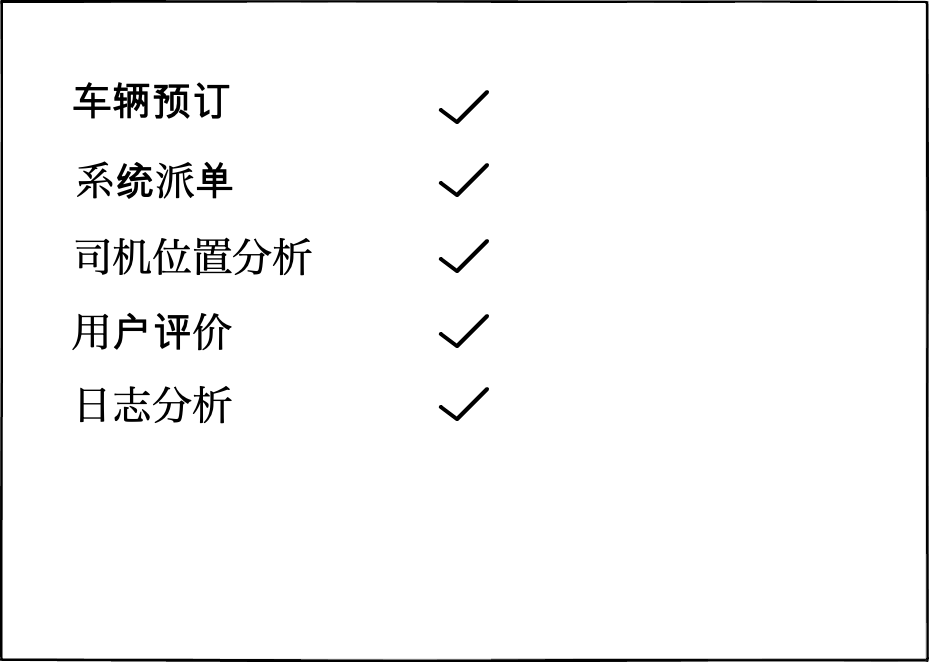
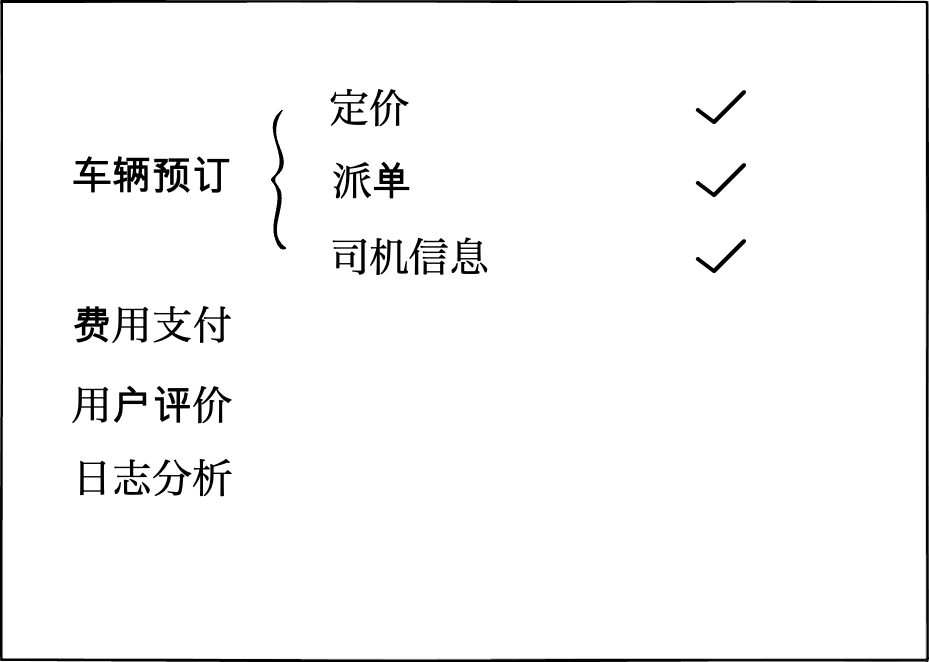
update content

diff --git a/content/基础/常见问题/系统设计面试 101（未完成）.md b/content/基础/常见问题/系统设计面试 101（未完成）.md
@@ -10,77 +10,126 @@ weight: 5
 - [如何写一份更好的简历](../如何写一份更好的简历/)
 - [程序员国外求职指南](../程序员国外求职指南/)
 
-在进行系统设计面试之前，我因为系统设计需要对整个项目所涉及的架构与解决方案有详尽的了解。例如当谈到负载均衡时，需要阐述使用 Http 的负载均衡还是 LVS 的，使用哪个软件的哪个负载均衡算法，优点缺点是什么，它们处理请求的流程，基础模型等等。但是经过大量的资料阅读，几次系统设计面试以及面试官反馈之后。我发现**系统设计的总体架构以及流程流程远比细节重要，短时间把所有技术细节都正确地分析到位非常困难，**把主要功能点与基本框架描述清楚，再就自己熟悉的方向深入作答，就能得到不错的评价。**这篇文章的目的并不是教你如何设计一套高可用的系统。而是让你在阅读完大量系统设计的学习资料之后，懂得如何在面试中表现出来。
-
-#### 系统设计资源推荐
-就像算法题中，了解基础的数据结构能够帮助我们快速解决问题，系统设计也需要我们了解一些常用的软件架构以及使用场景，这里我列出了一些学习资源，你可以先粗略看一遍。
-
-- [Inside NGINX: How We Designed for Performance & Scale](https://www.nginx.com/blog/inside-nginx-how-we-designed-for-performance-scale/)
-- [Introduction to Redis](https://redis.io/topics/introduction)
-- [How does Hadoop work and how to use it?](https://www.dezyre.com/article/hadoop-explained-how-does-hadoop-work-and-how-to-use-it-/237)
-- [Thorough Introduction to Apache Kafka](https://hackernoon.com/thorough-introduction-to-apache-kafka-6fbf2989bbc1)
-- [Highscalability all time favorites](http://highscalability.com/all-time-favorites/) 
-- [System design primer](https://github.com/donnemartin/system-design-primer)
-
 #### 面试流程
 系统设计总体可以分成 5个 部分，总时长约一个小时
 
 1. 确定范围（5分钟）
 2. 粗略计算（5分钟）
-3. 系统架构（20分钟）
-4. 分析瓶颈（10分钟）
-5. 架构优化（10分钟）
+3. 整体架构（5分钟）
+4. 组件架构（20分钟）
+5. 架构优化（20分钟）
 
 #### 确定范围
-系统面试开始之时，面试官可能会只提出一个问题：
+系统面试开始之时，面试官可能只会提出一个问题：
 
-> “如何设计像一个 Uber 这样的应用？”
+> “如何设计 Uber 这样的应用？”
+> 
+> “如何设计 Whatsapp 这样的应用？”
 
-或者
+如果你刚参加工作或者刚毕业，会对如何设计一个系统束手无策，要设计高可用，易扩展的系统需要广阔的计算机知识以及大量的项目经验累积，也往往需要一个团队配合设计以及多个版本的迭代。所以，面试官并不期待你可以在一小时内把 Uber 或者 Whatsapp 的全部功能都设计出来。系统设计面试主要考核的是
 
-> “如何设计像一个 Whatsapp 这样的应用？”
+- 把抽象问题转变成实际工程中能够解决的简单问题。
+- 利用自己现有的知识设计一个可用的系统
+- 观察现有方案可能出现的瓶颈并提出解决方案
 
-这些问题一开始看起来很复杂，但是别紧张，面试官并不期待你可以在一小时内把 Uber 或者 Whatsapp 的全部功能设计出来。系统设计主要考核求职者在遇到一个抽象的问题时，如何通过分析以及推理把它转变成实际工程中能够解决的简单问题。**所以第一阶段，提问并确定范围就显得特别重要了。**，这里以设计 Uber 为例，Uber 包括很多功能，例如车辆预订，司机位置显示，费用支付，评价，日志分析等等。我们先把这些功能点列在白板：
+**那么第一阶段，确定范围就显得特别重要了。我们需要先与面试官讨论系统中**
 
-![system_board_empty]()
+- 需要实现的功能点
+- 用户量，数据存储量，两者的增长量以及其他限制条件
 
-接下来，我们从中选出一到两项主要功能以及自己比较熟悉的附加功能，在 Uber 中，车辆预订，司机信息这两个功能最为重要，是必选，再从剩下的选一项熟悉的，确定好之后与面试官进行确认：
+如果你之前没有使用过这些应用（Uber, Whatsapp)，不要害怕通过对面试官提问确认功能点。（这并不奇怪，[2016年，美国有三分之一人没听过 Uber 或者 Lyft](https://www.thedrive.com/news/3585/one-third-of-americans-have-never-heard-of-uber-or-lyft)）。常见的问题有：
 
-![system_board]()
+> 用户可以使用这个应用做什么？
+> 
+> 这个应用有什么与众不同的功能？
 
-> “我先从几个功能开始进行设计可以吗？”
+因为设计架构本身花不了多少时间，所以我们值得投资更多时间在了解清楚问题中。以设计 Uber 为例，Uber 包括非常多功能，前端工程师关注的是**显示地图，司机位置更新，日志传输**。后端工程师关注的是**车辆预订（包含定价，派单，司机信息），费用支付，用户评价，日志分析**。我们先把想到的功能点都列在白板上，这里以后端工程师为例：
 
-**我们必须经过面试官对功能点认可才能进行接下来的系统设计，可能需要根据面试官关注的功能点来做修改。**紧接着，我们需要确定功能点中，关键模块的每秒请求数量，数据存储量，两者的增长速度以及其他限制。接下来是第二个问题：
 
-> “每秒有多少用户预订车辆？有多少数据需要存储？用户每个月的增长量是多少？对相应时间以及服务器数量有没有限制？”
+<img src="https://raw.githubusercontent.com/EngineGirl/enginegirl.github.io/markdown/images/resume/system/system_board_1.png" alt="" width="400"/>
 
-运气好的话，面试官会助攻一把：“车辆预订系统每秒有 10000次 请求，每天有 100G 数据需要存储，用户每月增长 10%，服务器不能超过 20台。”，我们在感谢面试官之后把这些重要数据记录在白板。面试官也可能简单地回答“每天有 100万 人次使用车辆预订，需要存储每次预订的所有信息，包括订单号，起点，终点，路径经纬度等。”，这时候你就需要进入**粗略估算**环节：
+第一步，我们从中选出几项主要功能，**在 Uber 中，定价，派单，司机信息这几个功能最为重要**，确定好之后与面试官进行确认：
+
+> “我先从这些功能开始进行设计可以吗？”
+
+<img src="https://raw.githubusercontent.com/EngineGirl/enginegirl.github.io/markdown/images/resume/system/system_board_2.png" alt="" width="400"/>
+
+**我们必须经过面试官对功能点认可才能进行接下来的系统设计。**第二步，针对**功能的每秒请求数量，数据存储量，两者的增长速度以及其他限制**提出问题：
+
+> “每秒有多少用户预订车辆？有多少数据需要存储？用户每个月的增长量是多少？对响应时间以及服务器数量有没有限制？”
+
+面试官可能会助攻一把：
+
+> “车辆预订系统每秒有 1万次 请求，每天有 100G 数据需要存储，用户每月增长 10%，服务器不能超过 20台。”
+
+我们在感谢面试官之后把这些重要数据记录在白板。不过面试官也可能简单地回答：
+
+> “每天有 100万 人次预订车辆，数据库需要存储每次预订的所有信息，包括订单号，起点，终点，路径经纬度等。”
+
+在不清楚所需数据范围的时候，需要进入**粗略估算**阶段
 
 #### 粗略估算
-粗略估算是每名工程师都需要学习的技巧，把现有的数据转换成项目需要的数据。在例子中，每天有 100万人次车辆预订，我们可以假定每次预订发送两个请求，每天有 86400 秒，我们假定 80% 的请求出现在 20% 的时间中。也就是 5小时 18000秒 内需要处理 160万个 请求，平均 88res/s。再假设上下班时间请求数为峰值，约正常情况下的 300%，综合来说，车辆预订模块每秒需要处理 300个 请求。这个模块的吞吐率需要达到 300res/s。那么 300res/s 需要多少台服务器支撑呢？这个根据业务的复杂度不同有非常大的区别，尤其因为车辆预订设计了定价，派单等业务逻辑。为了给各位一个量化的标准，我引用了《构建高可用web站点》里的数据，注意，这里处理的是web请求，通常来说比较简单，所以吞吐量也会较高。
 
-表格
+##### 1. 吞吐率
 
-我猜测我们单台服务器每秒能够处理 50次请求，在这个例子中，我们需要6台后端服务器来处理车辆预订。
+粗略估算是每名工程师都需要学习的技巧，把现有的数据转换成项目需要的数据。每天有 100万 人次车辆预订，我们可以假定每次预订发送两个请求，加上一些背景知识：
 
-#### 功能架构
-我想大多数求职者都没有设计过 Uber，也没写过车辆预订的相应业务代码。但是没有关系，**系统设计应该跳脱于应用本身，而从功能点出发**，我们看看车辆预订功能到底做了什么。
+
+- 每天有 86400 秒
+- 80% 的请求出现在 20% 的时间中
+- 上下班时间请求为平时的三倍
+
+我们能计算出 18000秒 中需要处理 160万个 请求，平均 88req/s。在高峰期，车辆预订模块每秒需要处理 300个 请求。**问题来了，要达到 300req/s 的吞吐率需要多少台服务器支撑呢？**答案根据业务的复杂度有非常大的区别，尤其在车辆预订功能里面涉及了定价，派单等业务逻辑。这里为了给各位一个量化的标准，我引用了《构建高可用web站点》里的数据，注意，以下表格处理的是 web 请求，通常来说会比较简单，相应的吞吐量也较高。
+
+> 服务器配置
+
+> CPU：Intel(R) Xeon(R) CPU 1.60GHz
+
+> 内存：4GB
+
+> 硬盘转速：15k/min
+
+软件       | 并发用户 | 总请求数 | 请求内容        | 缓存措施    | 吞吐率      |
+---        | ---      | ---      | ---             | ---         | ---         |
+Nginx/0.7  | 1000     | 50000    | 151字节静态文件 | 无          | 10556req/s  |
+Apache/2.2 | 100      | 1000     | 151字节静态文件 | 无          | 6364req/s   |
+Apache/2.2 | 100      | 1000     | 1.2m静态文件    | sendfile()  | 590req/s    |
+APC Cache  | 100      | 1000     | PHP动态页面     | PHP 动态缓存| 473req/s    |
+Apache/2.2 | 100      | 1000     | PHP动态页面     | 无          | 51req/s     |
+
+我们可以看到，**请求不同的内容，使用不同的软件以及设置不同的缓存策略**都会给结果带来极大的影响。我们可以保守估计，这样业务比较复杂的服务器，单台服务器每秒能够处理 50次 请求，所以总共需要 6台 后端服务器来处理车辆预订功能。
+
+##### 2. 数据请求
+假设每次车辆预约产生 3次 数据库查询以及 1次 数据库写入。每秒总共产生 900次 数据库查询以及 300次 数据库写入。那么这又需要多少台数据库支撑呢？你猜到了，这也是一个复杂的问题，涉及到**查询热点的分布，数据库缓存的设置，索引设置**等等。这里有两篇文章分析介绍了一些案例：
+
+- [High Performance MySQL](https://www.oreilly.com/library/view/high-performance-mysql/9780596101718/ch04.html)
+- [Using mysql as nosql](https://yoshinorimatsunobu.blogspot.com/2010/10/using-mysql-as-nosql-story-for.html)
+
+我们保守估计单台数据库可以支撑每秒 2000次 查询以及 500次 写入。由于数据库对数据持久化以及可用性要求非常高，我们通常都需要**主从热备，读写分离以及故障切换等功能**，这些我们在之后的瓶颈分析再进行讨论。在这里，暂时我们先使用一台数据库来处理请求。
+##### 3. 存储量
+每天 100万 次预订，每次预订估计 10KB 左右的信息。车辆预订每天产生 10G 的数据，加上其他功能大概每天 20G 左右。现在的硬盘都是以 TB 为单位了，存储量不需要担心。粗略估计结束了，把计算完的数据记录下来：
+
+![system_board_3](https://raw.githubusercontent.com/EngineGirl/enginegirl.github.io/markdown/images/resume/system/system_board_3.png)
+
+#### 整体架构
+我想大多数求职者都没有设计过 Uber，也没写过车辆预订的相应业务代码。但是没有关系，**系统设计应该跳脱于应用本身，而从功能点出发**，我们看看车辆预订功能实际完成了什么。
 
 1. 用户选择起点以及终点 -> 服务器返回定价以及预估路线。
-2. 当用户点击车辆预订 -> 服务器开始派单并显示该司机信息，位置。
+2. 当用户点击车辆预订 -> 服务器开始寻找司机，派单并显示该司机信息，位置。
 
-由于这个功能点是基于 HTTP 协议的，如果你有 Web 开发经验，会发现这些功能点与浏览器请求服务器的流程相似，虽然业务逻辑不同，但是都是客户端带参数请求服务端，服务端返回数据。我们可以把每个功能点理解成一个单独的 API 进行设计，首先，把车辆预订分为，定价，预估路线，派单，司机信息四个功能。最重要的是，8**在设计期间，你需要和面试官不断沟通，看他是否认可你的方案，根据他的提示来修改（面试官在面试前对题目的了解比我们要多，大多情况下跟着他不会错）。**
+如果你有 Web 开发经验，会发现这些功能点与浏览器请求服务器的流程相似，虽然业务逻辑不同，但是都是客户端带参数请求服务端，服务端返回数据。我们可以把每个功能点理解成一个单独的 API 进行设计。首先，把车辆预订分为，定价，预估路线，派单，司机信息四个功能。最重要的是，**在设计期间，你需要和面试官不断沟通，看他是否认可你的方案，根据他的提示来修改（面试官在面试前对题目的了解比我们要多，大多情况下跟着他不会错）。**综合上面的内容，我们得出一个粗略的整体架构。
+
+![system_board_4](https://raw.githubusercontent.com/EngineGirl/enginegirl.github.io/markdown/images/resume/system/system_board_4.png)
+
+#### 组件架构
+这里我们阐述定价，派单，司机信息三个功能
 
 #### 定价
-定价背后的逻辑比较复杂，主要是商业原因而不是技术原因，Uber 也一直在调整它的定价策略而达到利润最大化。我们可以先设计一个粗略的版本，首先，分析影响价格的因素，
+定价背后的逻辑比较复杂，主要涉及商业原因而不是技术原因，Uber 也一直在调整它的定价策略而达到利润最大化。不过，我们可以先设计一个粗略的版本，首先，分析影响价格的因素，
 
-| 因素        |
-| ----------- |
-| 路程长度    |
-| 需求量（预约人数与周围司机数量比值）|
-| 预订时间    |
-| 地区消费水平|
-| ...         |
+| 因素        | -                                   | -           | -           | -           |
+| ----------- | ---                                 | ---         | ---         | ---         |
+| 路程长度    | 需求量（预约人数与周围司机数量比值）| 预订时间    | 地区消费水平| ...         |
 
 这个表会包含非常多的因素，不过我们可以猜测里面最主要的三个因素以及它们的权重有以下的大小关系：
 
@@ -92,16 +141,10 @@ weight: 5
 
 其中，F，K，G函数分别对应一个哈希表，Uber 维护了每个因素与价格影响之间的哈希表，同样，我们可以假定如下：
 
-| 距离        | 价格影响  |
-| ----------- | ----------|
-| 1-2公里     | 起步价 10 元  |
-| 2公里以上   | 起步价格 + 每公里 2元  |
-| **需求量**  |           |
-| 1-2         | 1.2 倍    |
-| 2-4         | 1.4 倍    |
-| **预约时间**|           |
-| 早晚高峰    | 1.2 倍    |
-| 其他时间    | 1倍       |
+| 距离        | 价格影响          | 需求量 | 价格影响 | 预约时间 | 价格影响 |
+| ----------- | ----------        | ------ | -------  | -------  | -------  |
+| 1-2公里     | 起步价 10 元      | 1-2    | 1.2倍    | 早晚高峰 | 1.2倍    |
+| 2公里以上   | 起步价格的 1.1倍  | 2-4    | 1.4倍    | 其他时间 | 1倍      |
 
 一名用户在预约时，我们马上可以通过以上的公式计算出价格，例如用户在：
 
@@ -113,54 +156,98 @@ weight: 5
 
 10 * 1.4 * 1.2 = 16.8 元
 
-这样看起来，一个粗略的定价功能就实现了，我们在白板中写下具体架构以及需要存储的数据。
+这样看起来，一个粗略的定价功能就实现了，我们在白板中写下数据库结构，需要存储的数据以及 API 示例。这个功能用 NoSQL 实现会更容易，不过现阶段我们先使用 SQL 记录下来：
 
-![price_arch]()
+#### 距离表
 
-![price_data]()
+| distance_range  | 
+| --------------- |
+| price           |
+
+#### 需求表
+
+| demand_range    |
+| --------------- |
+| price           |
+
+#### 时间表
+
+| time_range      | 
+| --------------- |
+| price           |
+
+API 示例（以下为 Python 代码，可以略过实现，不过注释要写清楚）：
+
+    def calculate_price(latitude, longitude, current_time):
+        '''
+        input: 
+            latitude (float), longtitude (float): current user location
+            current_time (timestamp): user request timestamp
+
+        output:
+            price (float): estimated price
+        '''
+        pass
 
 #### 预估路线
-这是一个已经被解决的常见问题，我们可以把这个问题抽象为**如何快速找到有向无环图中两点的最短路径**，使用动态规划来解决。关键点在于把常见路线的预估路线存储起来，这样下次有类似请求的时候就不需要重复计算了。同样在白板中写下具体架构以及需要存储的数据：
-
-![path_arch]()
-
-![path_data]()
+这是一个已经被解决的常见问题，我们可以把这个问题抽象为**如何快速找到有向无环图中两点的最短路径**，使用动态规划来解决。关键点在于把常见路线的预估路线存储起来，这样下次有类似请求的时候就不需要重复计算了。同样在白板中设计数据库结构。
 
 #### 派单
-接收到预约请求之后，系统会派单给合适的司机，例如 2公里 内在线以及空闲的司机。这里有三个要点“2公里内”，“在线”，“空闲”，第一个和第三个比较容易，只需要在查询在线司机的时候附带筛选条件即可。我们需要在数据库中存储司机的信息。里面包含了
+接收到预约请求之后，系统会派单给合适的司机，**例如 2公里 内在线以及空闲的司机**。这里有三个要点“2公里内”，“在线”，“空闲”，第一个和第三个比较容易，只需要在查询在线司机的时候附带筛选条件即可。我们需要在数据库中存储司机的信息。里面包含了
 
 - 基本信息，包括车型，车牌，评分
 - 最后在线时的经纬度
 - 最后在线时的时间
 - 现在是否空闲
 
-我们根据最后在线时间，经纬度以及是否空闲先筛选出附近可用司机的列表，然后再根据司机的车型，评分加权得到排名，选出最合适的司机分配给用户。这几点中，判断司机是否在线比较麻烦。这个功能也很常见，像 Whatsapp 需要检测用户是否在线，在线的时候把之前收到的信息推送给用户。判断在线这个功能有两种方式实现，第一种解决方法最直观，司机客户端每分钟发送一个请求给服务器，在列表中我们维护着最近 X分钟 有发送此请求的司机。每当我们要找在线司机的时候，我们在列表中直接选即可。这个方法容易实现，不过缺点也很明显，第一是反馈不及时，司机可能因为网络原因 X分钟没请求服务器导致错过了派单，也可能司机下班了，但是系统在 X分钟 内依然派单过去。第二是需要处理更多的客户端请求，对系统的性能有影响。第二种解决方法是使用双向连接，例如 Websocket，服务器可以直接查询到客户端连接是否被关闭，每次用户连接服务器，服务器在列表中添加司机，一旦连接断了，则从列表中删除。同样在白板中写下具体架构以及需要存储的数据：
+我们根据最后在线时间，经纬度以及是否空闲先筛选出附近可用司机的列表，然后再根据司机的车型，评分加权得到排名，选出最合适的司机分配给用户。这几点中，判断司机是否在线比较麻烦。这个功能也很常见，我们一开始计算需求量的时候也要用到。像 Whatsapp 需要检测用户是否在线，在线的时候把之前收到的信息推送给用户。判断在线这个功能有两种方式实现，第一种解决方法最直观，司机客户端每分钟发送一个请求给服务器，在列表中我们维护着最近 X分钟 有发送此请求的司机。每当我们要找在线司机的时候，我们在列表中直接选即可。这个方法容易实现，不过缺点也很明显，第一是反馈不及时，司机可能因为网络原因 X分钟没请求服务器导致错过了派单，也可能司机下班了，但是系统在 X分钟 内依然派单过去。第二是需要处理更多的客户端请求，对系统的性能有影响。第二种解决方法是使用双向连接，例如 Websocket，服务器可以直接查询到客户端连接是否被关闭，每次用户连接服务器，服务器在列表中添加司机，一旦连接断了，则从列表中删除。同样在白板中设计具体架构，数据库架构：
 
-![dis_1]()
+#### 司机表
 
-![dis_2]()
+| driver          | 
+| --------------- |
+| car_number      |
+| ranking         |
+| last_online     |
+| ...             |
+
+
+API 示例（以下为 Python 代码，可以略过实现，不过注释要写清楚）：
+
+    def find_driver(latitude, longitude, current_time):
+        '''
+        input: 
+            latitude (float), longtitude (float): current user location
+            current_time (timestamp): user request timestamp
+
+        output:
+            driver_id (int): use driver_id to request driver's info 
+        '''
+        pass
 
 
 #### 司机信息
-派单之后需要显示司机的实时位置，方向，
-司机接单后就可以进行路径渲染了，这部分细节的难点非常多，例如滴滴使用的是FLP融合定位，在GPS有问题的时候，使用wifi，道路匹配，车辆航位推算因为要把车实时显示在正确的道路上，其中影响的因素有，这是道路吗？汽车的方向。简单来说是把司机的经纬度传到手机app端，手机进行分析以及渲染。具体细节如果你了解的话可以进行阐述。
-
-![功能架构]()
+派单之后需要在用户的客户端显示司机的基本信息，实时位置以及车辆方向。此时双向链接的优势就显现出来了，服务端可以实时获取到司机的当前位置。要把司机的位置实时渲染在地图的道路上并不容易。像滴滴使用的是 FLP 融合定位，在GPS有问题的时候，使用 WIFI，道路匹配，车辆航位推算等方式来解决这个问题。具体细节如果你了解的话可以进行进行阐述，在这里我只是简单地当成客户端从服务端获取司机的经纬度然后在地图上渲染。在白板中写下具体架构以及需要存储的数据
 
 #### 数据存储
-我们之前有那么多数据，如何存储呢？
-好吧，那么这里的数据怎么存储呢？服务器内存还是文件形式还是数据库，如果是数据库的话是 SQL 还是 NoSQL。这里的基本原则是，如果我们暂时不知道瓶颈在哪里的时候，但是数据又需要持久化存储，我们优先使用 SQL 数据库。我们现在可以将定价理解成一个 API 接口，手机应用发送出发点与终点的距离，当前的经纬度（用于给服务器计算需求量）以及当前时间给服务器，然后服务器就会返回价格。现阶段的架构如下
-
-#### 整体架构
-
-把这些功能点的架构合起来，
-这时候，我们有一个简单的架构了，当然我们这里没有使用负载均衡或者应用层的缓存，如果你有架构经验的话，可以看到在应用服务器群前可以加一个负载均衡，让请求分发到不同的 API 服务器。不过这点在之后的分析瓶颈我们再加上就好。
-
-#### 分析瓶颈
-瓶颈结合我们一开始的数字，一台服务器够吗？当然不够，那么使用多少台，简单的计算。多台服务器如何分配任务？负载均衡。
+好吧，那么我们之前记录需要存储的数据该存储在哪里呢？服务器内存？文件？还是数据库？如果是数据库的话是 SQL 还是 NoSQL。基本原则是，如果我们暂时不知道瓶颈在哪里的时候，但是数据又需要持久化存储，我们优先使用 SQL 数据库。（[Facebook 在有5亿日活量的时候，主要还是用 MySQL](https://gigaom.com/2011/12/06/facebook-shares-some-secrets-on-making-mysql-scale/)）一些关系性不强，需要频繁修改的地方（例如上面的司机在线列表）我们可以使用 NoSQL 存储在内存中。大型并且很少需要查询的文件，例如日志，可以存储在文件系统内。
 
 #### 架构优化
-现在我们得到这样的一张系统架构图，基本的设计模式如下，应用集群前加上负载均衡，关系型弱的数据使用NoSQL，计算耗时久的数据保存在NoSQL，所有工具都需要做集群（这里涉及一个问题，集群原理，集群失效如何恢复，可以参考文章最开始的链接学习，通常方法就两种，一种 failover，一种 沉鱼。关系型数据库做主从热备，然后写在主数据库，从数据库进行读。（阅读mysql 主从热备），那么最终我们可以得到这个架构图。
+完成架构之后，我们需要进行架构优化，观察系统瓶颈，哪里可能出现单点故障，能否保证高可用，容易水平扩展。基本的优化思路如下，
 
-#### 互相沟通
-和面试官交流
+- 使用服务器集群
+- 服务器集群前加上负载均衡
+- 计算耗时久的数据使用NoSQL缓存，
+- 关系型弱的数据使用NoSQL存储，
+- 数据库使用主从热备，读写分离
+
+最终我们可以得到这个架构图。
+
+
+
+得到这个架构图之后，可以就自己熟悉的地方与面试官进行交流，例如使用 LVS 还是 HTTP 的负载均衡，使用哪种主从热备方案，数据量大之后如何分区分表。我推荐一些资源，大家可以按需阅读。就像算法题中，了解基础的数据结构能够帮助我们快速解决问题，系统设计也需要我们了解一些常用的软件架构以及使用场景，这里我列出了一些学习资源，你可以先粗略看一遍。
+
+- [Inside NGINX: How We Designed for Performance & Scale](https://www.nginx.com/blog/inside-nginx-how-we-designed-for-performance-scale/)
+- [Introduction to Redis](https://redis.io/topics/introduction)
+- [How does Hadoop work and how to use it?](https://www.dezyre.com/article/hadoop-explained-how-does-hadoop-work-and-how-to-use-it-/237)
+- [Thorough Introduction to Apache Kafka](https://hackernoon.com/thorough-introduction-to-apache-kafka-6fbf2989bbc1)
